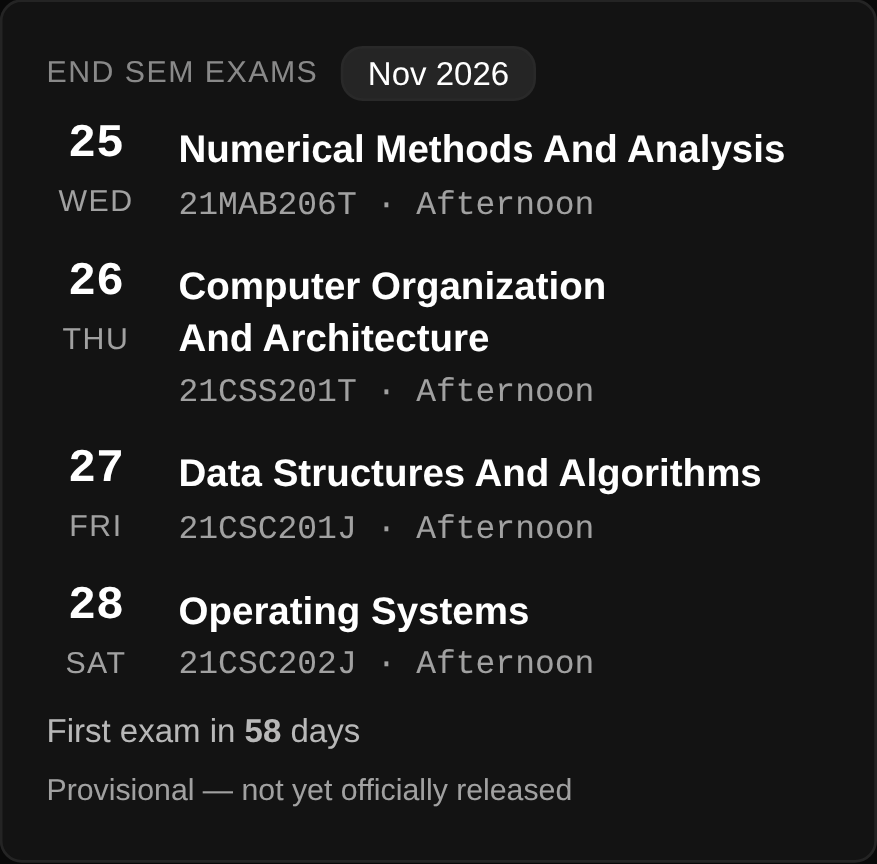
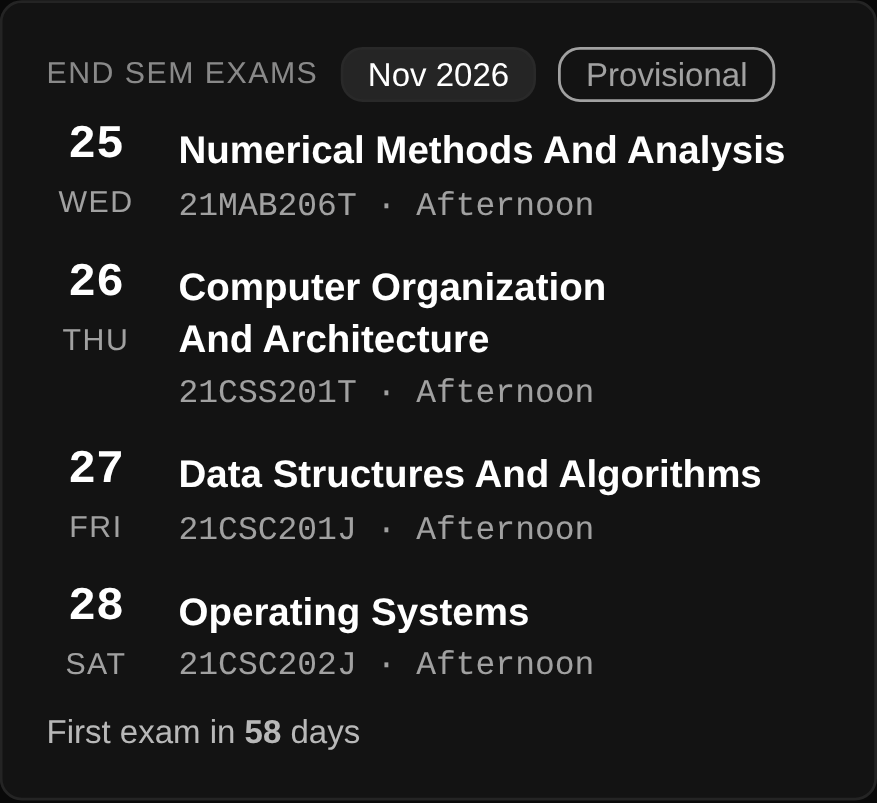
fix(web): Provisional becomes a header pill, footnote dropped
Footer line 'Provisional — not yet officially released' removed; the
caveat now sits in the header next to the month chip as
badge-outline badge-sm text-base-content/60 — quiet enough not to
compete with the Nov chip, present enough to keep the data-honesty
signal. Measured: 7.15:1 (the /60 utility DOES apply on outline badges —
no explicit color rule to fight, unlike badge-info). Countdown stays as
the only footer line.

Vision review: ship (pill subtle but present, header not crowded,
footnote gone). Contrast 0 fails, geometry 0 fails (pill right edge
319 < card 356), tests 24/24 + view + verify76 71/71, ruff clean.
DESIGN.md §4.12 synced. Screenshots re-shot at 2.75x.

diff --git a/app/templates/dashboard.html b/app/templates/dashboard.html
@@ -202,6 +202,7 @@
             <div class="flex items-center gap-2 mb-2">
               <div class="text-[11px] uppercase tracking-wider text-base-content/50">End sem exams</div>
               <span class="badge badge-soft badge-sm">{{ exams.label }}</span>
+              <span class="badge badge-outline badge-sm text-base-content/60">Provisional</span>
             </div>
             <ul class="space-y-3 sm:space-y-2">
               {% for e in exams.rows %}
@@ -230,7 +231,6 @@
               {% if exams.days_until > 0 %}First exam in <strong>{{ exams.days_until }}</strong> day{{ 's' if exams.days_until != 1 }}
               {% else %}Exams under way{% endif %}
             </div>
-            <div class="text-[11px] text-base-content/60 mt-1.5">Provisional — not yet officially released</div>
           </div>
           {% endif %}
         </div>

diff --git a/DESIGN.md b/DESIGN.md
@@ -389,8 +389,8 @@ Meaning map: current class = `success` border + 8% tint + "Now" badge · next/so
 
 - **Rows:** `space-y-3 sm:space-y-2`, no dividers — density comes from grouping, not rules (§ B2 / §6). The day stamp is the only 17px/600 element; name is the only `text-base-content` line; everything else `/60` (§2.5 ladder).
 - **Names** are title-cased in `_exams_view()` (`name_disp`); storage keeps the portal's ALL-CAPS `name`.
-- **Chip** is the default `badge-soft` — same as the marks pills (§2.7: no decorative hue). Measured soft ≈14:1 here; `badge-info` soft measured **4.07:1 on this surface (fails)** — see §10 for the override trap.
-- **Verify after any row change:** a contrast probe on the rendered page (canvas-normalized colors composited over the real card bg) and geometry assertions at 393×851 + 1280×900 (one stamp x, one name x, no overlap, no h-overflow, footnote above the fixed dock).
+- **Chip** is the default `badge-soft` — same as the marks pills (§2.7: no decorative hue). Measured soft ≈14:1 here; `badge-info` soft measured **4.07:1 on this surface (fails)** — see §10 for the override trap. The **Provisional** caveat lives in the header as `badge-outline badge-sm text-base-content/60` (7.15:1, subtle-but-present) — it replaced the old footnote line. Unlike `badge-info`, outline badges carry no explicit color rule, so `/60` does apply.
+- **Verify after any row change:** a contrast probe on the rendered page (canvas-normalized colors composited over the real card bg) and geometry assertions at 393×851 + 1280×900 (one stamp x, one name x, no overlap, no h-overflow, Provisional pill in the header, card bottom above the fixed dock).
 
 ---
 
